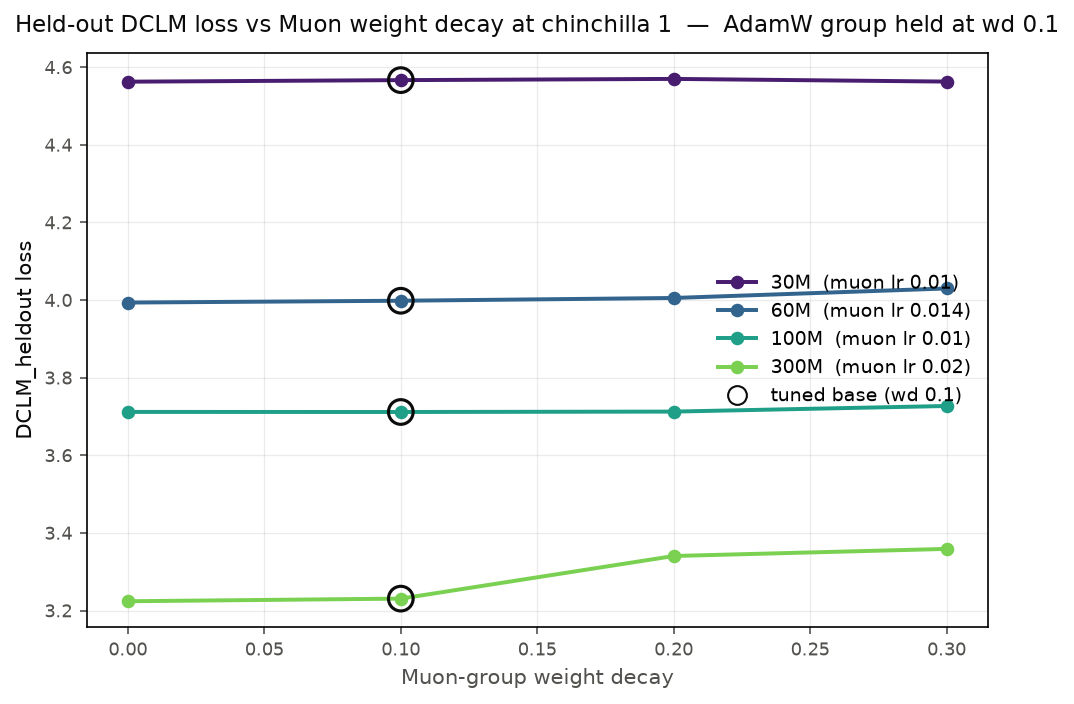
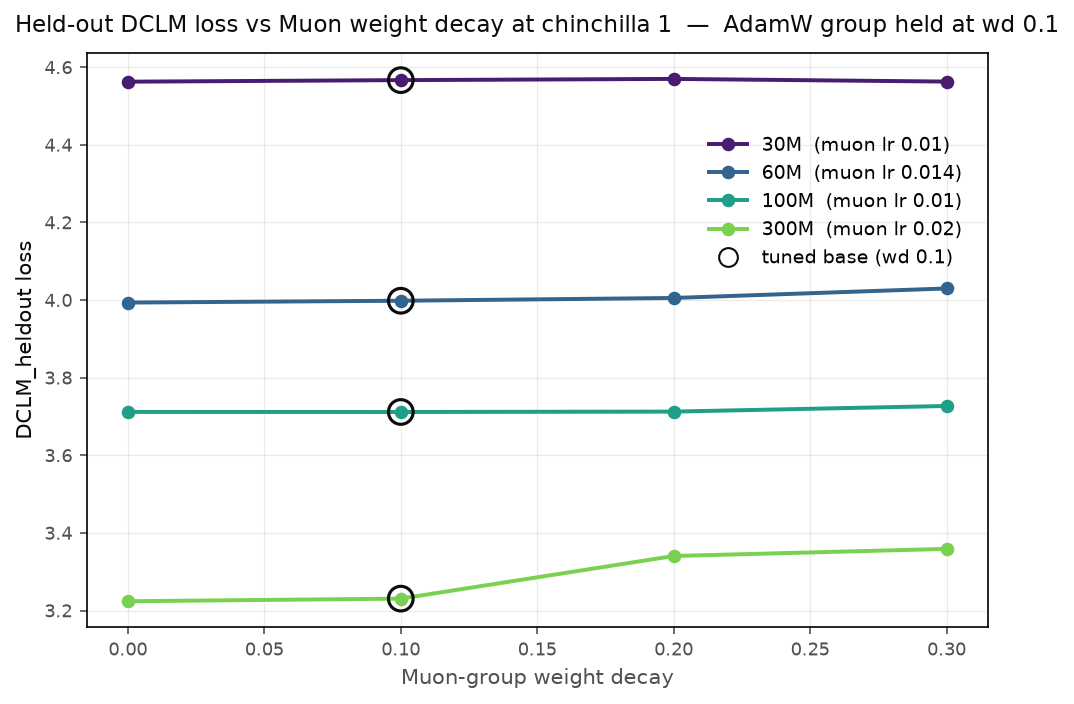
wd all-sizes: move the legend off the 100M line

Changed region(s): [[0.6453, 0.1875, 0.9218, 0.5938]]

diff --git a/new_utils/plot_pt60m_slices.py b/new_utils/plot_pt60m_slices.py
@@ -302,7 +302,9 @@ def plot_wd_pinned_all_sizes(sizes, cache_root, out, chinchilla=1.0,
     handles.append(plt.Line2D([], [], color=INK, marker="o", markersize=9,
                               markerfacecolor="none", linestyle="none"))
     labels.append("tuned base (wd 0.1)")
-    ax.legend(handles, labels, frameon=False, fontsize=9, loc="center right")
+    # The band between the 30M and 60M curves is the only clear space.
+    ax.legend(handles, labels, frameon=False, fontsize=9, loc="center right",
+              bbox_to_anchor=(0.99, 0.74))
     ax.set_title(f"Held-out DCLM loss vs Muon weight decay at chinchilla "
                  f"{chinchilla:g}  —  AdamW group held at wd 0.1",
                  fontsize=11, color=INK, pad=10)
